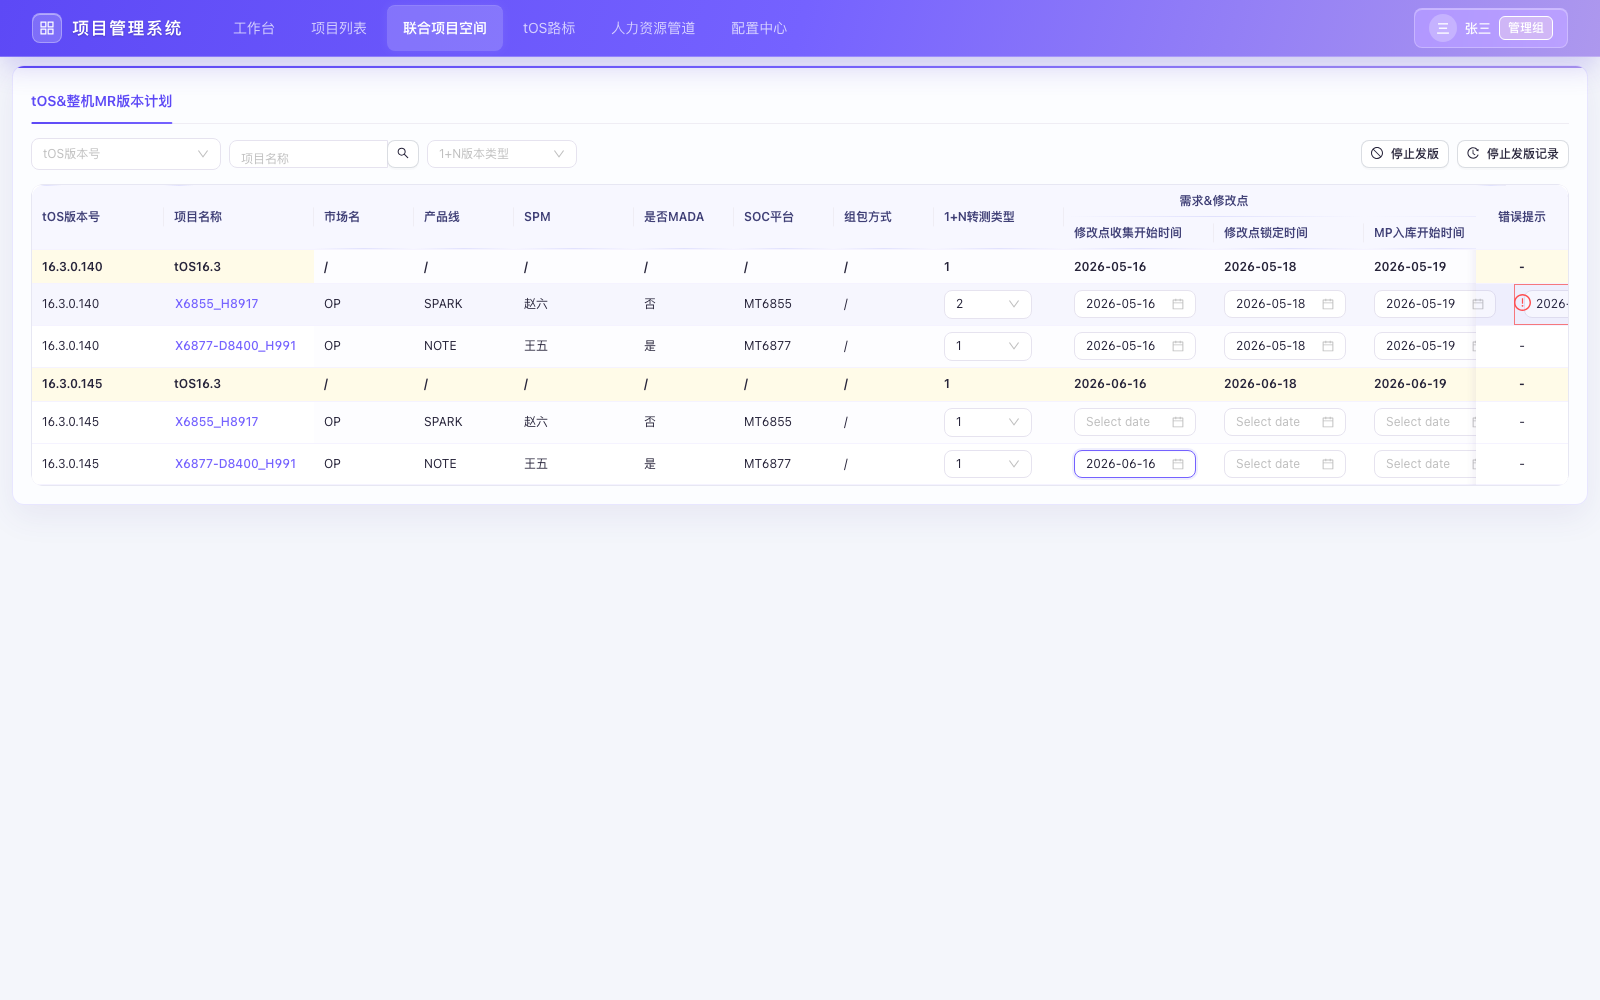
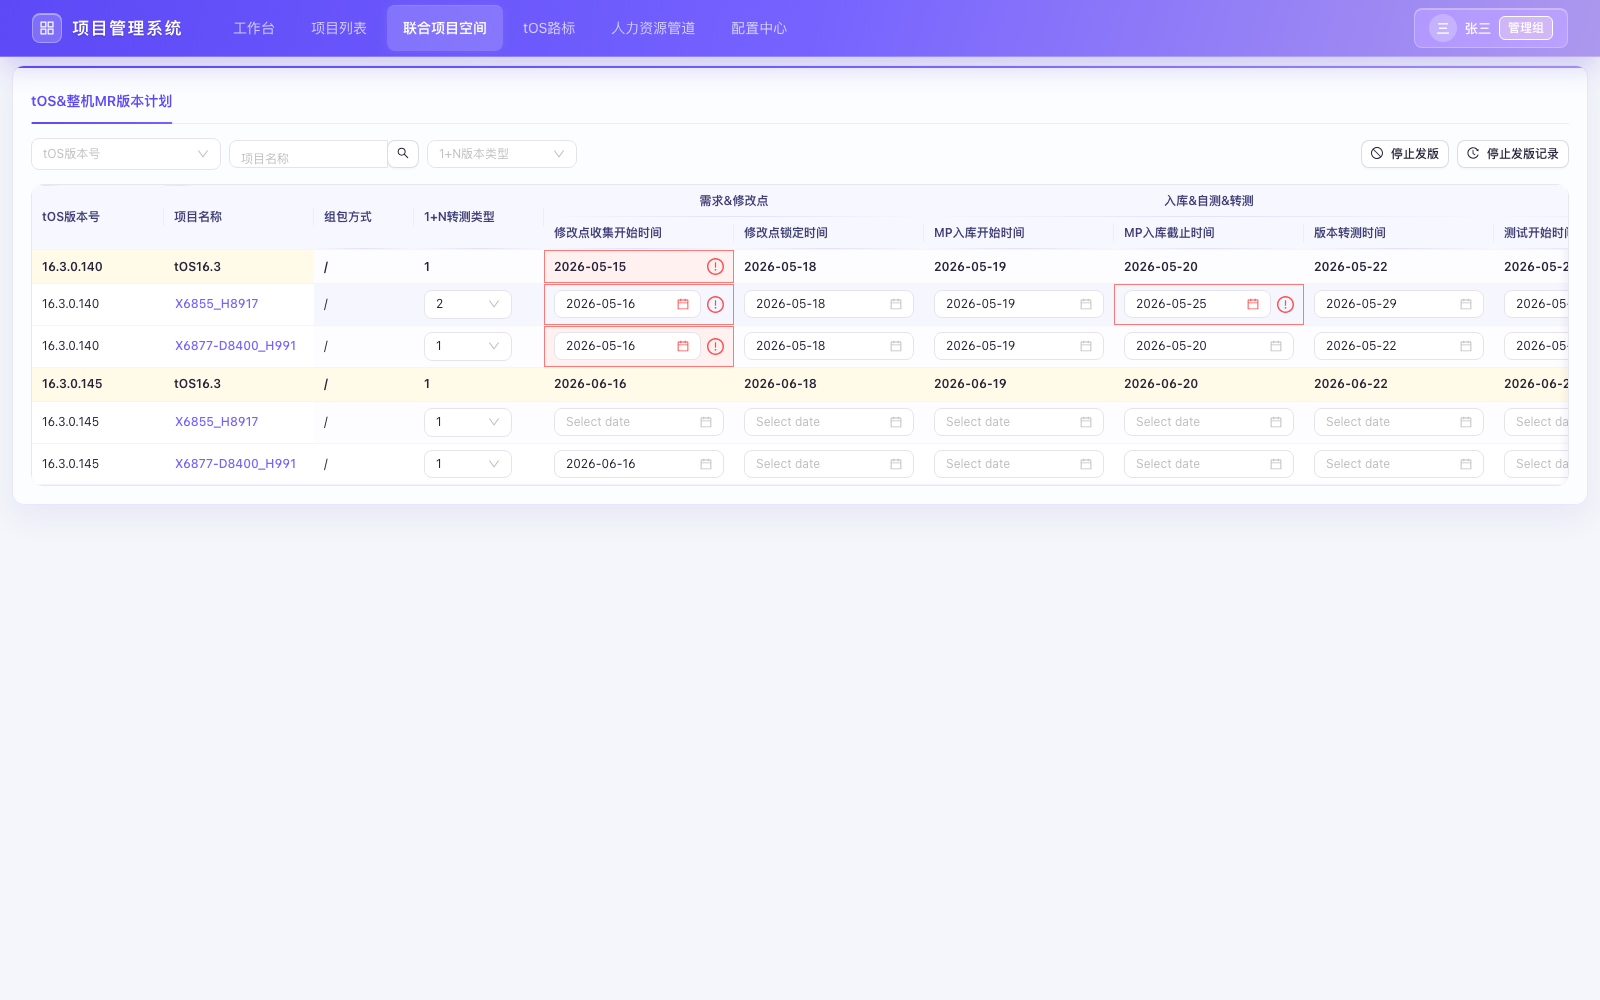
feat: localize joint mr date errors

diff --git a/src/components/joint/JointMrVersionPlan.tsx b/src/components/joint/JointMrVersionPlan.tsx
@@ -15,7 +15,7 @@ import {
   Tooltip,
   message,
 } from 'antd'
-import { ExclamationCircleOutlined, HistoryOutlined, StopOutlined } from '@ant-design/icons'
+import { HistoryOutlined, StopOutlined } from '@ant-design/icons'
 import type { ColumnsType } from 'antd/es/table'
 import { useProjectStore } from '@/stores/project'
 import { usePlanStore } from '@/stores/plan'
@@ -23,7 +23,7 @@ import { usePermissionStore } from '@/stores/permission'
 import { rehydrateMrVersionPlanStore, useMrVersionPlanStore } from '@/stores/mrVersionPlan'
 import { buildMrAggregationSources } from '@/lib/mrPlanSourceAdapters'
 import { reconcileJointMachinePlans } from '@/lib/mrAggregationRules'
-import { groupMrErrorsByRow, validateJointMachineRows } from '@/lib/mrDateRules'
+import { validateJointMachineRows } from '@/lib/mrDateRules'
 import {
   buildStopReleaseCandidates,
   formatStopReleaseOperatedAt,
@@ -35,7 +35,11 @@ import {
   buildJointMrColumnSchema,
   compareTosVersionNumbers,
   resolveMrPermissions,
+  resolveTosMrInstanceDateAccess,
+  selectTosMrVersionCandidates,
+  validateTosMrInstanceDates,
 } from '@/lib/mrVersionPlanRules'
+import { MrDateCellContent } from '@/components/plans/MrPlanGrid'
 import type {
   MrCellError,
   MrGroupedColumn,
@@ -116,8 +120,14 @@ function display(value: string | undefined): string {
   return value?.trim() || '/'
 }
 
-function dedupeMessages(errors: readonly MrCellError[]): string[] {
-  return [...new Set(errors.map(error => error.message))]
+function buildJointCellErrors(errors: readonly MrCellError[]): Record<string, Record<string, string[]>> {
+  const result: Record<string, Record<string, string[]>> = {}
+  errors.forEach(error => {
+    const row = result[error.rowKey] ?? (result[error.rowKey] = {})
+    const messages = row[error.activityId] ?? (row[error.activityId] = [])
+    if (!messages.includes(error.message)) messages.push(error.message)
+  })
+  return result
 }
 
 export default function JointMrVersionPlan({ onOpenProject }: JointMrVersionPlanProps) {
@@ -234,9 +244,37 @@ export default function JointMrVersionPlan({ onOpenProject }: JointMrVersionPlan
     () => projection.rows.filter((row): row is MrJointMachineRow => row.kind === 'machine').map(row => row.plan),
     [projection.rows],
   )
-  const errorsByRow = useMemo(
-    () => groupMrErrorsByRow(validateJointMachineRows({ tosInstances, machinePlans: machineRows })),
+  const machineErrors = useMemo(
+    () => validateJointMachineRows({ tosInstances, machinePlans: machineRows }),
     [machineRows, tosInstances],
+  )
+  const tosErrors = useMemo(() => tosInstances.flatMap(instance => {
+    const source = sources.latestPublishedLevel1ByProjectId[instance.projectId]
+    const candidates = source ? selectTosMrVersionCandidates({
+      versions: source.versions,
+      getSnapshot: source.getSnapshot,
+      usedVersions: tosInstances
+        .filter(candidate => candidate.projectId === instance.projectId)
+        .map(candidate => candidate.tosVersion),
+    }) : []
+    const access = resolveTosMrInstanceDateAccess(instance.tosVersion, candidates)
+    const rowKey = `${instance.projectId}::${instance.tosVersion}::reference`
+    if (!access.canEdit) {
+      return instance.activities
+        .filter(activity => activity.parentId !== null)
+        .map(activity => ({
+          rowKey,
+          activityId: activity.id,
+          activityName: activity.activityName,
+          message: access.reason,
+        }))
+    }
+    return validateTosMrInstanceDates(instance, access.bounds)
+      .map(error => ({ ...error, rowKey }))
+  }), [sources.latestPublishedLevel1ByProjectId, tosInstances])
+  const cellErrorsByRow = useMemo(
+    () => buildJointCellErrors([...machineErrors, ...tosErrors]),
+    [machineErrors, tosErrors],
   )
   const schema = useMemo(
     () => buildJointMrColumnSchema(tosInstances, latestPublishedActivities(templateVersions)),
@@ -317,20 +355,27 @@ export default function JointMrVersionPlan({ onOpenProject }: JointMrVersionPlan
   }
 
   const fixedColumns: ColumnsType<JointRow> = [
-    { title: 'tOS版本号', dataIndex: 'tosVersion', key: 'tosVersion', width: 132, fixed: 'left', render: display },
+    {
+      title: 'tOS版本号', dataIndex: 'tosVersion', key: 'tosVersion', width: 132, fixed: 'left',
+      render: value => <span className="pms-joint-mr-fixed-cell-content">{display(value)}</span>,
+    },
     {
       title: '项目名称', key: 'projectName', width: 150, fixed: 'left', render: (_, row) => {
-        if (row.kind === 'tos-reference') return display(tosProjectNames.get(row.projectId))
+        if (row.kind === 'tos-reference') {
+          return <span className="pms-joint-mr-fixed-cell-content">{display(tosProjectNames.get(row.projectId))}</span>
+        }
         const metadata = sources.machineMetadataByProjectId[row.projectId] ?? fallbackMetadata(row.projectId)
         return (
-          <Button
-            type="link"
-            className="pms-joint-mr-project-link"
-            aria-label={`打开项目-${metadata.projectName}`}
-            onClick={() => handleOpenProject(row, metadata)}
-          >
-            {metadata.projectName}
-          </Button>
+          <span className="pms-joint-mr-fixed-cell-content">
+            <Button
+              type="link"
+              className="pms-joint-mr-project-link"
+              aria-label={`打开项目-${metadata.projectName}`}
+              onClick={() => handleOpenProject(row, metadata)}
+            >
+              {metadata.projectName}
+            </Button>
+          </span>
         )
       },
     },
@@ -369,13 +414,11 @@ export default function JointMrVersionPlan({ onOpenProject }: JointMrVersionPlan
     children: group.children.map(child => ({
       title: child.title,
       key: child.key,
-      width: 150,
+      width: 190,
       onCell: row => {
         const instance = findInstance(tosInstances, row)
         const activity = findActivity(instance, child.parentName, child.activityName)
-        const errors = row.kind === 'machine' && activity
-          ? (errorsByRow[row.key] ?? []).filter(error => error.activityId === activity.id)
-          : []
+        const errors = activity ? cellErrorsByRow[row.key]?.[activity.id] ?? [] : []
         return {
           className: `pms-joint-mr-date-cell${errors.length ? ' pms-mr-invalid-cell' : ''}`,
           'data-mr-date-cell': 'true',
@@ -386,20 +429,36 @@ export default function JointMrVersionPlan({ onOpenProject }: JointMrVersionPlan
         const instance = findInstance(tosInstances, row)
         const activity = findActivity(instance, child.parentName, child.activityName)
         if (!activity) return '/'
-        if (row.kind === 'tos-reference') return display(instance?.dates[activity.id])
-        if (row.plan.transferType === 'N/A') return '/'
+        const errors = cellErrorsByRow[row.key]?.[activity.id] ?? []
+        const ariaLabel = `${row.projectId}-${row.tosVersion}-${child.activityName}`
+        if (row.kind === 'tos-reference') {
+          return (
+            <MrDateCellContent
+              content={<span aria-label={ariaLabel}>{display(instance?.dates[activity.id])}</span>}
+              errors={errors}
+              ariaLabel={ariaLabel}
+            />
+          )
+        }
+        if (row.plan.transferType === 'N/A') {
+          return <MrDateCellContent content={<span aria-label={ariaLabel}>/</span>} errors={errors} ariaLabel={ariaLabel} />
+        }
         const permission = permissionByProjectId.get(row.projectId)
         const value = row.plan.dates[activity.id] || ''
-        if (!permission?.canEditMachine) return display(value)
-        return (
+        const content = !permission?.canEditMachine
+          ? <span aria-label={ariaLabel}>{display(value)}</span>
+          : (
           <DatePicker
             value={value ? dayjs(value) : null}
             format="YYYY-MM-DD"
             allowClear
-            aria-label={`${row.projectId}-${row.tosVersion}-${child.activityName}`}
+            aria-label={ariaLabel}
             onChange={date => handleDate(row, activity.id, date?.format('YYYY-MM-DD') ?? '', permission)}
+            status={errors.length ? 'error' : undefined}
+            style={{ width: '100%' }}
           />
-        )
+            )
+        return <MrDateCellContent content={content} errors={errors} ariaLabel={ariaLabel} />
       },
     })),
   }))
@@ -407,25 +466,6 @@ export default function JointMrVersionPlan({ onOpenProject }: JointMrVersionPlan
   const columns: ColumnsType<JointRow> = [
     ...fixedColumns,
     ...dateColumns,
-    {
-      title: '错误提示', key: 'errors', width: 92, fixed: 'right', align: 'center',
-      onCell: () => ({ 'data-mr-fixed-error-cell': 'true' } as any),
-      render: (_, row) => {
-        if (row.kind === 'tos-reference') return '-'
-        const messages = dedupeMessages(errorsByRow[row.key] ?? [])
-        if (!messages.length) return '-'
-        return (
-          <Tooltip title={<div>{messages.map(item => <div key={item}>{item}</div>)}</div>}>
-            <ExclamationCircleOutlined
-              className="pms-joint-mr-error-icon"
-              tabIndex={0}
-              role="img"
-              aria-label={`查看${messages.length}条日期错误`}
-            />
-          </Tooltip>
-        )
-      },
-    },
   ]
 
   if (!hydrated) {

diff --git a/src/styles/globals.css b/src/styles/globals.css
@@ -1872,6 +1872,30 @@
 
 .pms-mr-plan-grid .pms-mr-date-with-error > .ant-picker { min-width: 142px; }
 .pms-mr-plan-grid .pms-mr-error-icon { flex: 0 0 auto; color: #ff4d4f; cursor: help; }
+.pms-mr-invalid-cell-content {
+  display: flex;
+  align-items: center;
+  gap: 6px;
+  width: 100%;
+  min-width: 0;
+}
+
+.pms-mr-invalid-cell-content > :first-child {
+  min-width: 0;
+  flex: 1 1 auto;
+}
+
+.pms-mr-cell-error-icon {
+  flex: 0 0 auto;
+  color: #ff4d4f;
+  cursor: help;
+  font-size: 17px;
+}
+
+.pms-mr-cell-error-icon:focus-visible {
+  outline: 2px solid var(--pms-brand-strong);
+  outline-offset: 2px;
+}
 .pms-mr-plan-grid .ant-table-cell-fix-left-last::after { box-shadow: 5px 0 10px -7px rgba(46, 43, 80, 0.42) !important; }
 .pms-mr-candidate-reason { color: #9ca3af; font-size: 12px; }
 
@@ -6995,7 +7019,10 @@ body,
 .pms-joint-mr-table .ant-table-thead > tr > th.ant-table-cell-fix-start,
 .pms-joint-mr-table .ant-table-thead > tr > th.ant-table-cell-fix-end {
   position: sticky !important;
+  isolation: isolate;
+  overflow: hidden;
   z-index: 6;
+  background-clip: border-box;
   background: #f7f7ff !important;
 }
 
@@ -7003,7 +7030,10 @@ body,
 .pms-joint-mr-table .ant-table-thead > tr > th.ant-table-cell-fix-left,
 .pms-joint-mr-table .ant-table-thead > tr > th.ant-table-cell-fix-right {
   position: sticky !important;
+  isolation: isolate;
+  overflow: hidden;
   z-index: 6;
+  background-clip: border-box;
   background: #f7f7ff !important;
 }
 
@@ -7015,14 +7045,20 @@ body,
 .pms-joint-mr-table .ant-table-tbody > tr > td.ant-table-cell-fix-start,
 .pms-joint-mr-table .ant-table-tbody > tr > td.ant-table-cell-fix-end {
   position: sticky !important;
+  isolation: isolate;
+  overflow: hidden;
   z-index: 3;
+  background-clip: border-box;
   background: #fff;
 }
 
 .pms-joint-mr-table .ant-table-tbody > tr > td.ant-table-cell-fix-left,
 .pms-joint-mr-table .ant-table-tbody > tr > td.ant-table-cell-fix-right {
   position: sticky !important;
+  isolation: isolate;
+  overflow: hidden;
   z-index: 3;
+  background-clip: border-box;
   background: #fff;
 }
 
@@ -7037,15 +7073,25 @@ body,
   background: #fffbe8;
 }
 
+.pms-joint-mr-fixed-cell-content {
+  position: absolute;
+  inset: 0;
+  z-index: 1;
+  display: flex;
+  align-items: center;
+  min-width: 0;
+  padding: 10px;
+  overflow: hidden;
+  background: #fff;
+}
+
+.pms-joint-mr-reference-row .pms-joint-mr-fixed-cell-content {
+  background: #fffbe8;
+}
+
 .pms-joint-mr-table .pms-mr-invalid-cell {
   background: #fff1f0 !important;
   box-shadow: inset 0 0 0 1px #ff7875;
-}
-
-.pms-joint-mr-error-icon {
-  color: #ff4d4f;
-  cursor: help;
-  font-size: 17px;
 }
 
 .pms-joint-mr-field-label {
@@ -7055,7 +7101,6 @@ body,
   font-size: 13px;
 }
 
-.pms-joint-mr-error-icon:focus-visible,
 .pms-joint-mr-project-link:focus-visible {
   outline: 2px solid var(--pms-brand-strong);
   outline-offset: 2px;

diff --git a/src/components/plans/MrPlanGrid.tsx b/src/components/plans/MrPlanGrid.tsx
@@ -1,6 +1,6 @@
 'use client'
 
-import type { HTMLAttributes } from 'react'
+import type { HTMLAttributes, ReactNode } from 'react'
 import { DatePicker, Table, Tooltip } from 'antd'
 import { ExclamationCircleOutlined } from '@ant-design/icons'
 import dayjs from 'dayjs'
@@ -43,6 +43,30 @@ interface VerticalGridRow {
 
 export function getMrPlanCellKey(rowKey: string, activityId: string): string {
   return `${rowKey}::${activityId}`
+}
+
+export interface MrDateCellContentProps {
+  content: ReactNode
+  errors: readonly string[]
+  ariaLabel: string
+}
+
+export function MrDateCellContent({ content, errors, ariaLabel }: MrDateCellContentProps) {
+  const messages = [...new Set(errors.filter(Boolean))]
+  if (!messages.length) return content
+  return (
+    <span className="pms-mr-invalid-cell-content">
+      {content}
+      <Tooltip color="red" title={<div>{messages.map(message => <div key={message}>{message}</div>)}</div>}>
+        <ExclamationCircleOutlined
+          className="pms-mr-cell-error-icon"
+          tabIndex={0}
+          role="img"
+          aria-label={`${ariaLabel}，${messages.length}条日期错误`}
+        />
+      </Tooltip>
+    </span>
+  )
 }
 
 function buildHorizontalSchema(rows: readonly MrPlanGridRow[]): MrGroupedColumn[] {
@@ -100,15 +124,7 @@ function renderDateCell(
         )
       : <span aria-label={ariaLabel}>{value || '-'}</span>
 
-  if (!errors.length) return content
-  return (
-    <span className="pms-mr-date-with-error">
-      {content}
-      <Tooltip color="red" title={errors.join('；')}>
-        <ExclamationCircleOutlined className="pms-mr-error-icon" tabIndex={0} aria-label={`${ariaLabel}-错误：${errors.join('；')}`} />
-      </Tooltip>
-    </span>
-  )
+  return <MrDateCellContent content={content} errors={errors} ariaLabel={ariaLabel} />
 }
 
 export default function MrPlanGrid({
